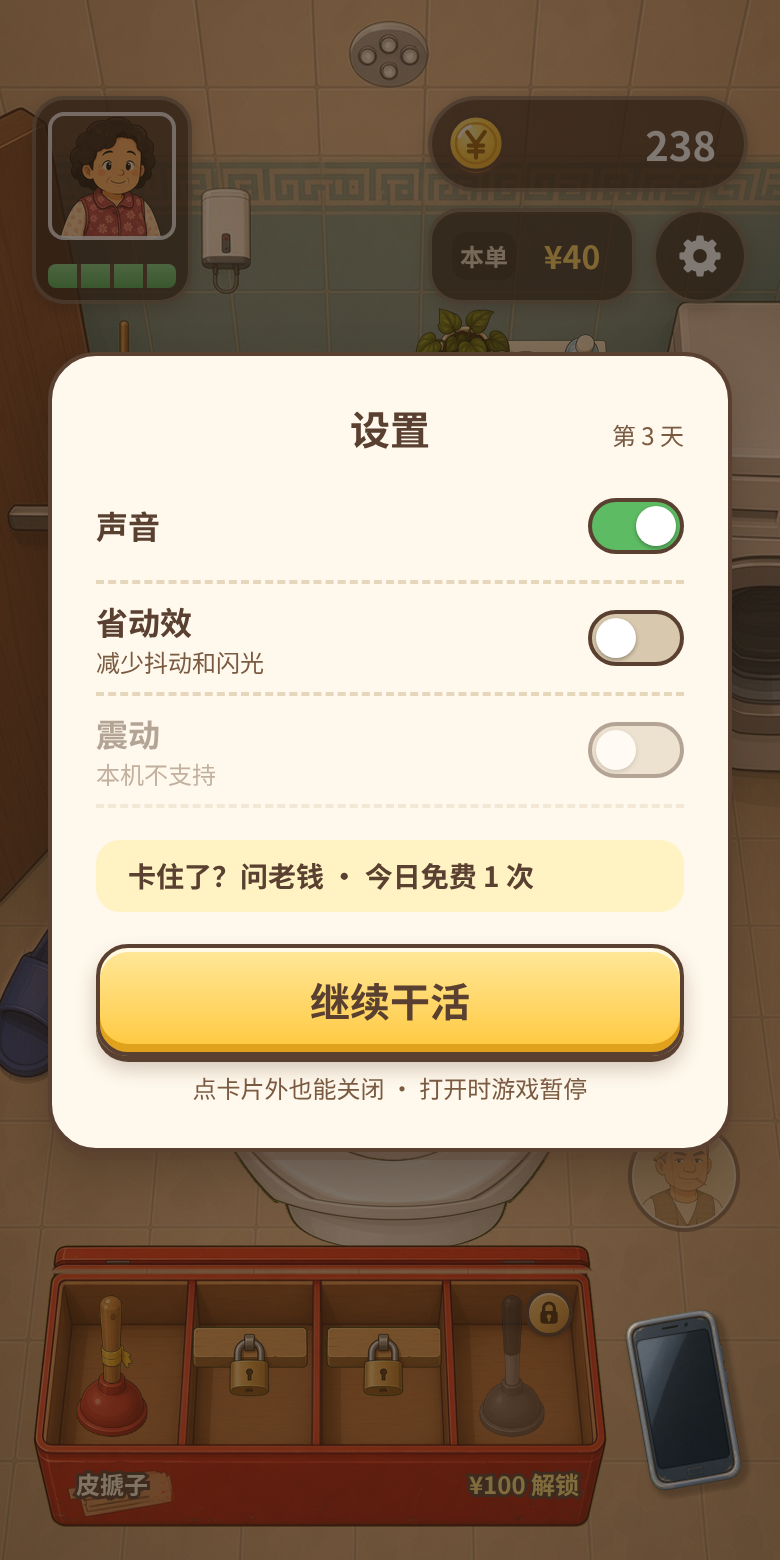
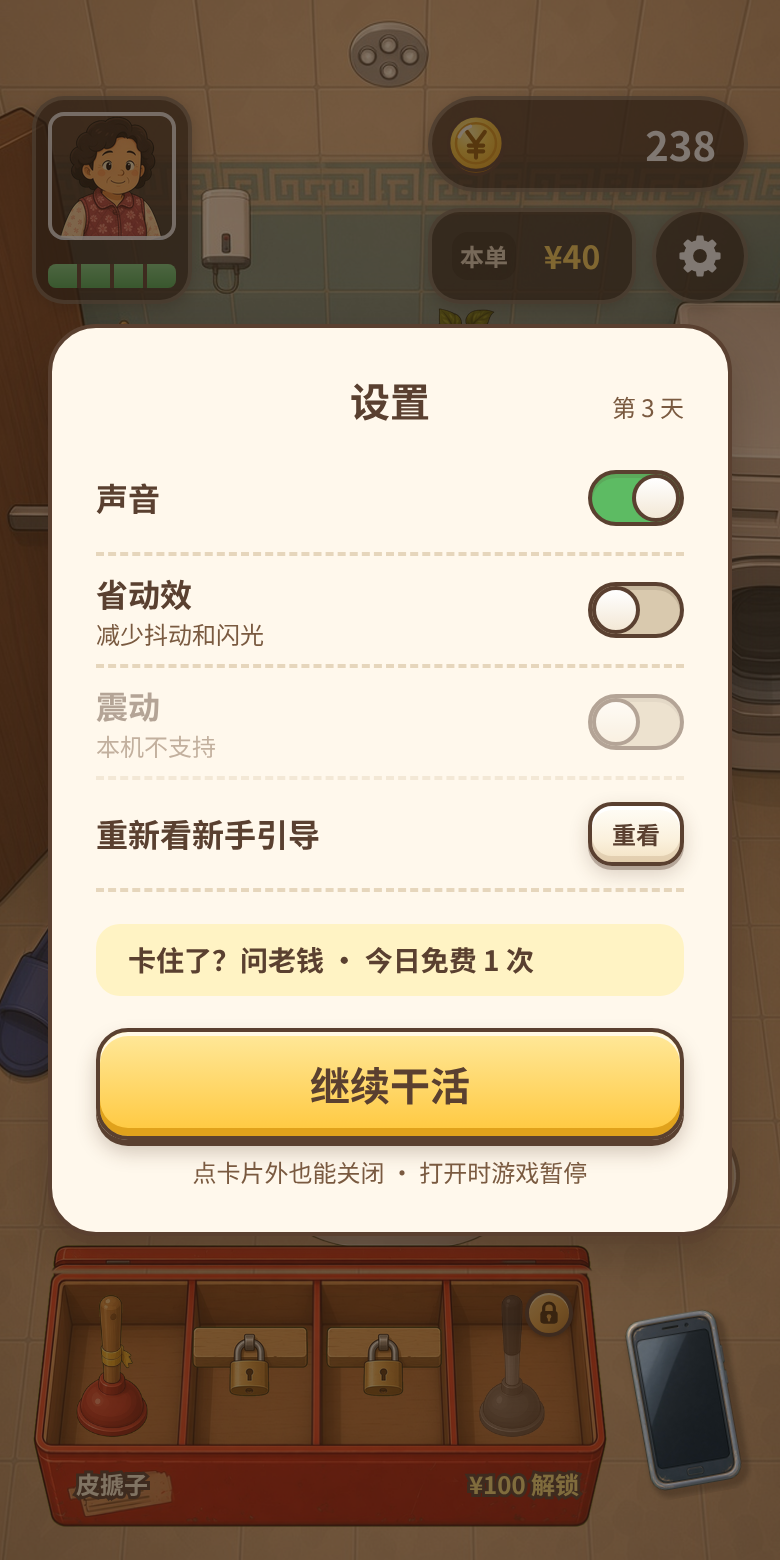
ui 设置面板：新增「重新看新手引导」行+小号次按钮「重看」（常态/点击后两稿），面板垂直居中，开关对齐组件库；spec：复制用时仅 debug、删再玩一遍 改为已定

Changed region(s): [[0.0615, 0.1846, 0.9538, 0.8]]

diff --git a/design/ui/hifi/v15/v15.css b/design/ui/hifi/v15/v15.css
@@ -116,8 +116,13 @@ body.annmode{width:760px!important;background:#2b211b}.note{position:absolute;le
 .stg .k{font-size:16px;line-height:24px;font-weight:700;color:#5A4030}
 .stg .s{display:block;font-size:12px;line-height:16px;font-weight:400;color:#7A5A40}
 .stg.dis{opacity:.45}
-.sw{position:relative;width:48px;height:28px;border-radius:14px;background:#5DBB63;border:2px solid #5A4030;flex:none}
-.sw::after{content:"";position:absolute;right:2px;top:2px;width:20px;height:20px;border-radius:50%;background:#fff;box-shadow:0 1px 2px rgba(0,0,0,.3)}
-.sw.off{background:#D8C8AD}.sw.off::after{left:2px;right:auto}
+.sw{position:relative;width:48px;height:28px;border-radius:14px;background:#5DBB63;border:2px solid #5A4030;box-shadow:inset 0 2px 0 rgba(90,64,48,.15);flex:none}
+.sw i{position:absolute;left:20px;top:0;width:24px;height:24px;border-radius:12px;background:linear-gradient(#fff,#F3E8D6);border:2px solid #5A4030}
+.sw.off{background:#D9C9AE}.sw.off i{left:0}
+/* 小号次按钮（瓷面，高 32）：同 v1.3 次按钮瓷面 / 按下规则 */
+.sbtn{display:block;flex:none;height:32px;border-radius:12px;padding:0 10px;border:2px solid #5A4030;background:linear-gradient(#FFFDF7 0%,#FBF1DD 60%,#F3E2C3 100%);box-shadow:inset 0 2px 0 #fff,inset 0 -3px 0 rgba(150,110,70,.18),0 2px 0 rgba(90,64,48,.35),0 4px 10px rgba(70,45,25,.2);font-size:12px;line-height:28px;font-weight:700;color:#5A4030;text-align:center;white-space:nowrap}
+.sbtn.pressed{transform:translateY(2px);background:linear-gradient(#F7EBD3,#EEDCBC);box-shadow:inset 0 2px 3px rgba(90,64,48,.2)}
+.sbtn.disabled{border-color:#B9A68F;box-shadow:none;background:#F1E6D2;color:#A8957E}
+.sbtn.re{background:none!important;border-color:transparent!important;box-shadow:none!important;transform:none}
 .stip{height:36px;border-radius:12px;background:#FFF3C4;padding:8px 16px;font-size:14px;line-height:20px;font-weight:700;color:#5A4030;text-align:left}
 .sfoot{display:block;height:16px;font-size:12px;line-height:16px;font-weight:400;color:#7A5A40}

diff --git a/design/ui/hifi/v15/build.py b/design/ui/hifi/v15/build.py
@@ -130,22 +130,33 @@ screen('hifi_v15_day_end', f'第 {N} 天收工（G2 drawDayEnd，dayDisplay.sett
                 dict(t='pos', n='主按钮', e='#btn', k=['h', 'w'], ex=dict(h=56, w=294)),
                 dict(t='pad', n='卡片(标题行)', c='#card', k='#dTitle', sides=[0, 1, 3], e=[24, 24, None, 24]),
                 dict(t='pad', n='卡片底(到主按钮)', c='#card', k='#btn', sides=[2], e=[None, None, 24, None])])
-def settings(re):
-    rows = '<div class="stg" id="sg0"><span class="k">声音</span><div class="sw"></div></div>' \
-           '<div class="stg" id="sg1"><span><span class="k">省动效</span><span class="s">减少抖动和闪光</span></span><div class="sw off"></div></div>' \
-           '<div class="stg dis" id="sg2"><span><span class="k">震动</span><span class="s">本机不支持</span></span><div class="sw off"></div></div>'
-    inner = f'<div class="srow0" id="sRow"><span class="sp" style="text-align:left"></span><span class="dttl" id="sTitle">设置<i class="blm" id="blA"></i></span><span class="sp"><span class="dday" id="sDay">{DD["settingsPanel"]["format"].replace("{n}", str(N))}<i class="blm" id="blB"></i></span></span></div>' \
-            f'<div id="sRows" style="margin-top:8px">{rows}</div><div class="stip" id="sTip" style="margin-top:16px">卡住了？问老钱 · 今日免费 1 次</div>' + inbtn('继续干活', re, 16) + \
-            '<div class="sfoot" id="sFoot" style="margin-top:8px">点卡片外也能关闭 · 打开时游戏暂停</div>'
-    return base(re, client='wang_ayi', money=238, pay='¥40', phone_on=False) + '<div class="scrim"></div>' + card(inner, 176, 400, re) + phone(False)
-screen('hifi_v15_settings', f'设置面板（dayDisplay.settingsPanel）：第 {N} 天某单进行中点齿轮打开，金币 238、本单 ¥40（示意）；标题「设置」居中，「第 {N} 天」在标题行右端、与标题基线对齐；遮罩 rgba(43,30,20,.6) 压住场景和 HUD，手机在遮罩上方（弹层打开时不弹通知条）',
-       settings, [dict(t='pos', n='卡片', e='#card', k=['l', 't', 'r', 'h'], ex=dict(l=24, t=176, r=24, h=400)), dict(t='center', n='标题「设置」', e='#sTitle'),
-                  dict(t='base', n='「第 N 天」与标题', a='#blA', b='#blB'), dict(t='style', n='「第 N 天」', e='#sDay', ex=dict(fs='12px', lh='16px', fw='400', c='rgb(122, 90, 64)', num='tabular-nums')),
-                  dict(t='pad', n='卡片(「第 N 天」右)', c='#card', k='#sDay', sides=[1], e=[None, 24, None, None]), dict(t='pad', n='卡片(标题行)', c='#card', k='#sRow', sides=[0], e=[24, None, None, None]),
-                  dict(t='gap', n='标题行→开关', a='#sRow', b='#sRows', ax='v', e=8), dict(t='gap', n='开关→提示条', a='#sRows', b='#sTip', ax='v', e=16),
-                  dict(t='gap', n='提示条→主按钮', a='#sTip', b='#btn', ax='v', e=16), dict(t='pos', n='主按钮', e='#btn', k=['h'], ex=dict(h=56)),
-                  dict(t='gap', n='主按钮→说明', a='#btn', b='#sFoot', ax='v', e=8), dict(t='pad', n='卡片底', c='#card', k='#sFoot', sides=[2], e=[None, None, 24, None])])
-# 参考图（不进 qa/pixel）：S4 用 shock 表情
+RP = json.load(open(ROOT + '/data/onboarding.json'))
+def settings_fn(replayed):
+    def settings(re):
+        rows = '<div class="stg" id="sg0"><span class="k">声音</span><div class="sw"><i></i></div></div>' \
+               '<div class="stg" id="sg1"><span><span class="k">省动效</span><span class="s">减少抖动和闪光</span></span><div class="sw off"><i></i></div></div>' \
+               '<div class="stg dis" id="sg2"><span><span class="k">震动</span><span class="s">本机不支持</span></span><div class="sw off"><i></i></div></div>' \
+               f'<div class="stg" id="sg3"><span id="rpL"><span class="k" id="rpK">重新看新手引导</span>{"<span class=s id=rpS>下次开工时重新引导</span>" if replayed else ""}</span>' + sbtn('重看', 'disabled' if replayed else 'normal', re) + '</div>'
+        inner = f'<div class="srow0" id="sRow"><span class="sp" style="text-align:left"></span><span class="dttl" id="sTitle">设置<i class="blm" id="blA"></i></span><span class="sp"><span class="dday" id="sDay">{DD["settingsPanel"]["format"].replace("{n}", str(N))}<i class="blm" id="blB"></i></span></span></div>' \
+                f'<div id="sRows" style="margin-top:8px">{rows}</div><div class="stip" id="sTip" style="margin-top:16px">卡住了？问老钱 · 今日免费 1 次</div>' + inbtn('继续干活', re, 16) + \
+                '<div class="sfoot" id="sFoot" style="margin-top:8px">点卡片外也能关闭 · 打开时游戏暂停</div>'
+        return base(re, client='wang_ayi', money=238, pay='¥40', phone_on=False) + '<div class="scrim"></div>' + card(inner, 162, 456, re) + phone(False)
+    return settings
+SET_ANN = [dict(t='pos', n='卡片（垂直居中）', e='#card', k=['l', 't', 'r', 'h', 'b'], ex=dict(l=24, t=162, r=24, h=456, b=162)), dict(t='center', n='标题「设置」', e='#sTitle'),
+           dict(t='base', n='「第 N 天」与标题', a='#blA', b='#blB'), dict(t='style', n='「第 N 天」', e='#sDay', ex=dict(fs='12px', lh='16px', fw='400', c='rgb(122, 90, 64)', num='tabular-nums')),
+           dict(t='pad', n='卡片(「第 N 天」右)', c='#card', k='#sDay', sides=[1], e=[None, 24, None, None]), dict(t='pad', n='卡片(标题行)', c='#card', k='#sRow', sides=[0], e=[24, None, None, None]),
+           dict(t='gap', n='标题行→开关', a='#sRow', b='#sRows', ax='v', e=8),
+           dict(t='pos', n='「重看」行高（同开关行）', e='#sg3', k=['h'], ex=dict(h=56)), dict(t='gap', n='震动行→重看行', a='#sg2', b='#sg3', ax='v', e=0),
+           dict(t='style', n='行标题「重新看新手引导」（T3 同开关行）', e='#rpK', ex=dict(fs='16px', lh='24px', fw='700')),
+           dict(t='pos', n='「重看」按钮', e='#sbtn', k=['h', 'w'], ex=dict(h=32, w=48)), dict(t='pad', n='「重看」左右（含 2px 描边，同全局内边距口径）', c='#sbtn', k='#sbtnT', sides=[1, 3], e=[None, 12, None, 12]),
+           dict(t='pad', n='「重看」右边距（同开关）', c='#sg3', k='#sbtn', sides=[1], e=[None, 0, None, None]),
+           dict(t='gap', n='重看行→提示条', a='#sg3', b='#sTip', ax='v', e=16),
+           dict(t='gap', n='提示条→主按钮', a='#sTip', b='#btn', ax='v', e=16), dict(t='pos', n='主按钮', e='#btn', k=['h'], ex=dict(h=56)),
+           dict(t='gap', n='主按钮→说明', a='#btn', b='#sFoot', ax='v', e=8), dict(t='pad', n='卡片底', c='#card', k='#sFoot', sides=[2], e=[None, None, 24, None])]
+screen('hifi_v15_settings', f'设置面板（dayDisplay.settingsPanel + settingsReplay）：第 {N} 天某单进行中点齿轮打开，金币 238、本单 ¥40（示意）；「第 {N} 天」在标题行右端、与标题基线对齐；震动行后新增「重新看新手引导」+「重看」（常态）；遮罩 rgba(43,30,20,.6) 压住场景和 HUD，手机在遮罩上方（弹层打开时不弹通知条）；玩家版不画「复制用时」（仅 ?debug=1）',
+       settings_fn(False), SET_ANN)
+screen('hifi_v15_settings_replayed', f'设置面板：点「重看」后（已清 tutorialDone）：按钮禁用，行内说明「下次开工时重新引导」T5 #7A5A40；不弹确认框；其余同常态',
+       settings_fn(True), SET_ANN + [dict(t='style', n='行内说明', e='#rpS', ex=dict(fs='12px', lh='16px', fw='400', c='rgb(122, 90, 64)'))])# 参考图（不进 qa/pixel）：S4 用 shock 表情
 REF = {}
 
 TAILJS = '''ANN.filter(a=>a.t==='base').forEach(a=>{const A=R(Q(a.a)),B=R(Q(a.b));chk(eqv(A.t,B.t),`${a.n} 基线 y ${f(A.t)} / ${f(B.t)}（应相同）`);if(SHOW)hseg(A.l-4,B.l+4,A.t,'基线 '+f(A.t))});ANN.filter(a=>a.t==='style').forEach(a=>{const c=getComputedStyle(Q(a.e));const v={fs:c.fontSize,lh:c.lineHeight,fw:c.fontWeight,c:c.color,num:c.fontVariantNumeric};const ok=Object.keys(a.ex).every(k=>v[k]===a.ex[k]);chk(ok,`${a.n} 字 ${v.fs}/${v.lh} 字重 ${v.fw} ${v.c} ${v.num}`)});ANN.filter(a=>a.t==='inset').forEach(a=>{const r=R(Q(a.e));const ir=a.fr-r.r,it=r.t-a.ft;chk(eqv(ir,a.ex)&&eqv(it,a.ex),`${a.n}：右 ${f(ir)} / 上 ${f(it)}（应 ${a.ex}；内沿实测 x ${a.fr}、y ${a.ft}；角标完全在格内，不压箱沿）`);if(SHOW){hseg(r.r,a.fr,r.t+12,f(ir));vseg(a.ft,r.t,r.l+12,f(it))}});ANN.filter(a=>a.t==='tail').length&&(()=>{const b=R(Q('.bb')),s=R(Q('.bb .tail'));const base=s.l+2-b.l,apex=s.t;chk(eqv(base,24)&&eqv(apex,152),`尖角：底边起点离气泡左边 ${f(base)}（应 24），宽 16，尖顶 y ${f(apex)}（贴客户卡底 152）`);if(SHOW){hseg(b.l,s.l+2,b.t-12,f(base))}})();'''

diff --git a/design/ui/hifi/v15/contrast.py b/design/ui/hifi/v15/contrast.py
@@ -67,10 +67,14 @@ solid('结算页 标题「收工」#5A4030 / 卡片', hx('#5A4030'), DE, (60, 21
 solid('结算页 明细 #5A4030 / 卡片', hx('#5A4030'), DE, (230, 286, 40, 20))
 solid('结算页「今日收入」「余额」#7A5A40 / 卡片', hx('#7A5A40'), DE, (60, 406, 64, 16))
 solid('结算页 金额描边 #8A5A00 / 卡片（T1 金字靠描边成形，非文字 3:1 之外另算 4.5）', hx('#8A5A00'), DE, (60, 426, 64, 40))
-solid('设置面板「第 3 天」#7A5A40 / 面板', hx('#7A5A40'), ST, (230, 204, 56, 16))
-solid('设置面板 说明 #7A5A40 / 面板', hx('#7A5A40'), ST, (36, 548, 40, 16))
+solid('设置面板「第 3 天」#7A5A40 / 面板', hx('#7A5A40'), ST, (230, 190, 56, 16))
+solid('设置面板 说明 #7A5A40 / 面板', hx('#7A5A40'), ST, (36, 590, 40, 16))
 _T = brightest(Image.open('hifi/hifi_v15_s1_bubble_calm.png').convert('RGB'), 34, 752, 36, 10); rows.append(dict(item=f'工具箱「皮搋子」描边 #5A4030 / 箱体纸标签（字下方纸签最亮像素 #{_T[0]:02X}{_T[1]:02X}{_T[2]:02X}）', need=3, 实际最亮处=round(cr(hx('#5A4030'), _T), 2), ok=cr(hx('#5A4030'), _T) >= 3))
 rows.append(dict(item='工具名 #FFF3D8 / 3px #5A4030 描边（字和描边本身）', need=4.5, 纯色=round(cr(hx('#FFF3D8'), hx('#5A4030')), 2), ok=True))
+SR = Image.open('hifi/hifi_v15_settings_replayed.png').convert('RGB')
+solid('设置「重看」后行内说明「下次开工时重新引导」#7A5A40 / 面板', hx('#7A5A40'), SR, (160, 422, 80, 16))
+rows.append(dict(item='「重看」字 #5A4030 / 瓷面最深处 #F3E2C3', need=4.5, 纯色=round(cr(hx('#5A4030'), hx('#F3E2C3')), 2), ok=cr(hx('#5A4030'), hx('#F3E2C3')) >= 4.5))
+rows.append(dict(item='「重看」禁用态字 #A8957E / #F1E6D2（禁用控件，WCAG 不要求，仅记录）', need=0, 纯色=round(cr(hx('#A8957E'), hx('#F1E6D2')), 2), ok=True))
 rows.append(dict(item='（对照）游戏现用设置面板底 #FFF8EB 上 #7A5A40', need=4.5, 纯色=round(cr(hx('#7A5A40'), hx('#FFF8EB')), 2), ok=cr(hx('#7A5A40'), hx('#FFF8EB')) >= 4.5))
 for r in rows: print('✔' if r['ok'] else '✘', r['item'], {k: v for k, v in r.items() if k in ('实际最亮处', '纯白极限', '实测最暗处', '纯色')})
 json.dump(rows, open('hifi/contrast.json', 'w'), ensure_ascii=False, indent=1)

diff --git a/design/ui/hifi/v15/comp.py b/design/ui/hifi/v15/comp.py
@@ -10,6 +10,7 @@ NS = {
  'chip24': dict(slice=(48, 48, 48, 48), width=(24, 24, 24, 24), out=(12, 12, 12, 12)),
  'card':   dict(slice=(120, 120, 120, 120), width=(60, 60, 60, 60), out=(36, 36, 36, 36)),
  'btn':    dict(slice=(64, 64, 64, 64), width=(32, 32, 32, 32), out=(16, 16, 16, 16)),
+ 'sbtn':   dict(slice=(64, 60, 64, 60), width=(32, 30, 32, 30), out=(16, 16, 16, 16)),
 }
 def bimg(kind, url):
     n = NS[kind]; s = ' '.join(map(str, n['slice'])); w = ' '.join(f'{v}px' for v in n['width']); o = ' '.join(f'{v}px' for v in n['out'])
@@ -89,3 +90,9 @@ def wave(kind='caller', idle=False, seed=3):
         bars += f'<i style="height:{hgt}px"></i>'
     op = 'opacity:.5;' if idle else ''
     return f'<div class="wave {"hero" if kind=="hero" else ""}" id="wave" style="left:113px;{op}">{bars}</div>'
+
+def sbtn(label, state='normal', re=False, idd='sbtn'):
+    st = bimg('sbtn', f'{V15}btn_secondary_s_{state}@2x.png') if re else ''
+    cls = {'normal': '', 'pressed': 'pressed', 'disabled': 'disabled'}[state]
+    col = 'color:#A8957E;' if state == 'disabled' else ''
+    return f'<div class="sbtn {cls} {"re" if re else ""}" id="{idd}" style="{st}{col}"><span id="{idd}T">{label}</span></div>'

diff --git a/design/ui/hifi/v15/slices.py b/design/ui/hifi/v15/slices.py
@@ -17,6 +17,9 @@ for st in ['normal', 'pressed', 'disabled']:
 for st in ['normal', 'pressed', 'disabled']:
     cls = {'normal': '', 'pressed': 'pressed', 'disabled': 'disabled'}[st]
     add(f'btn_answer_{st}', 104, 104, 16, f'<div class="ans {cls}" style="left:16px;top:16px"></div>', None, note='接听按钮 72（不含图标；按下态已含下移 2px）')
+for st in ['normal', 'pressed', 'disabled']:
+    cls = {'normal': '', 'pressed': 'pressed', 'disabled': 'disabled'}[st]
+    add(f'btn_secondary_s_{st}', 84, 64, 16, f'<div class="sbtn L {cls}" style="left:16px;top:16px;width:52px"></div>', NS['sbtn']['slice'], note='小号次按钮 高 32（瓷面，圆角 12，2px 描边；字 T5 Bold 由代码画，左右内边距 12 含描边外 10+2）；按下态已含下移 2px；禁用字色 #A8957E。点击区上下各扩 8 → 高 48')
 add('icon_phone_32', 32, 32, 0, f'<div style="position:absolute;left:0;top:0;width:32px;height:32px">{PHONE}</div>')
 add('icon_phone_32_disabled', 32, 32, 0, f'<div style="position:absolute;left:0;top:0;width:32px;height:32px;opacity:.45">{PHONE}</div>')
 add('icon_coin_40', 40, 40, 0, f'<div class="coinbig" style="left:0;top:0">{COIN}</div>')
